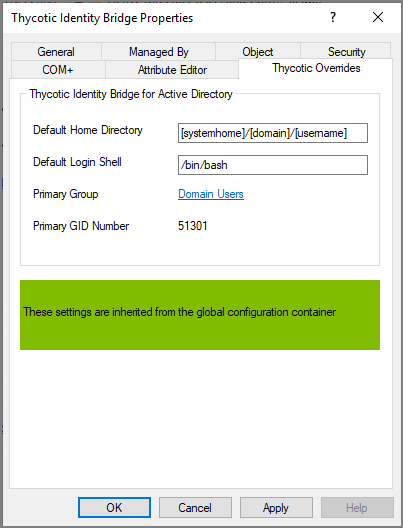
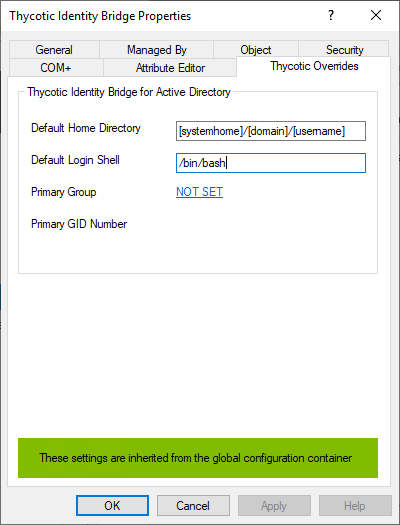
#205658: added clear button and inherited message info to ou-overrides topic

Changed region(s): [[0.0, 0.0, 1.0, 1.0], [0.69, 0.0914, 0.93, 0.1524], [0.6, 0.061, 0.69, 0.1219]]

diff --git a/aduc-ext/ou-overrides.md b/aduc-ext/ou-overrides.md
@@ -29,3 +29,17 @@ Defines the Linux/Unix shell that will be assigned to that user on login.
 ## Primary GID
 
 The GID number of the Primary group assigned to the user.
+
+## Clear
+
+A __Clear__ button is available with an override implemented on an OU Container. When clicked, the OU overrides are cleared and default back to the Global values as defined in the Thycotic Configuration Utility.
+
+![clear](images/overrides-clear.png "Thycotic Overrides tab with clear button")
+
+## Inherited
+
+When viewing any child OU properties with an override in place on an OU Container, a message is display that it’s Thycotic Overrides are inherited from the parent container.
+
+The Clear option is also available to default back to the Global values as defined in the Thycotic Configuration Utility.
+
+![inherited](images/overrides-inherited.png "Thycotic Overrides tab with clear button and settings are inherited from parent container messages")
